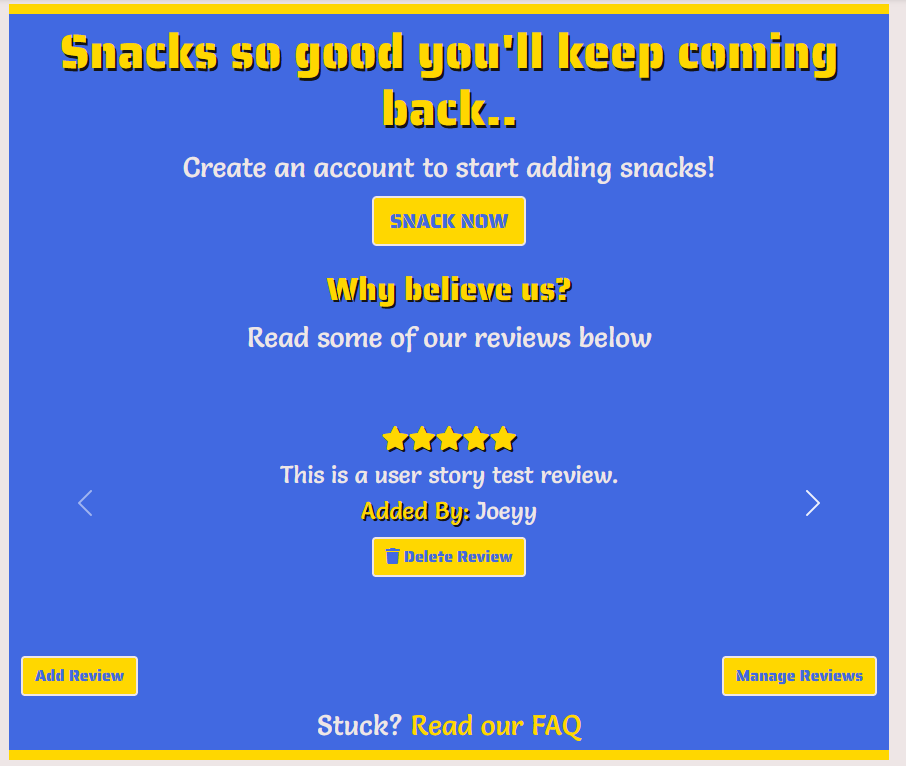
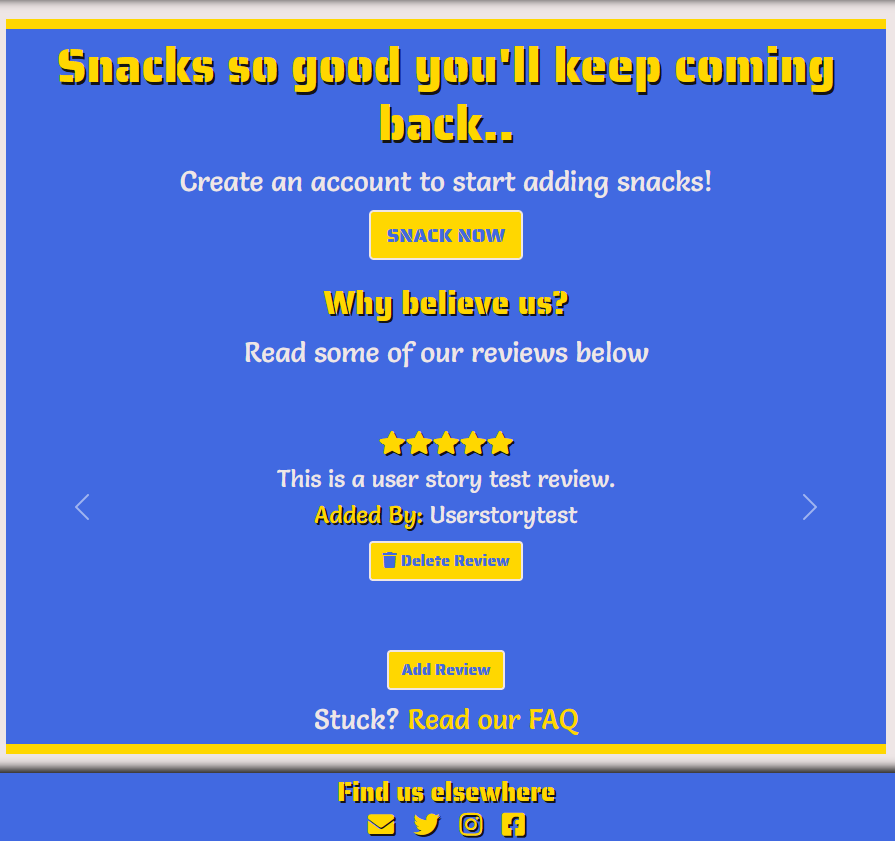
[DOCS] Refactored rest of registered user stories

Changed region(s): [[0.0, 0.0, 1.0, 1.0], [0.181, 0.1802, 0.8145, 0.4504]]

diff --git a/TESTING.md b/TESTING.md
@@ -316,17 +316,27 @@ I tested the appearance and responsiveness of the website across 6 different bro
         | ![Login Screenshot](docs/images/testing/userstories/login.png) |
         | ![Logout Screenshot](docs/images/testing/userstories/logout.png) |
 
-+ As a **Registered User**, I want to be able to easily add and remove items from my supply crate.
++ As a **Registered User**, I want to be able to easily add, update and delete items from my supply crate.
     + I have added an Add To Crate button on each supply in ```supplies.html``` which allows the user to easily add a selected quantity of the supply to their crate.
     + I have added Update/Delete buttons for each crate item in ```crate.html``` which allows the user to easily update/delete supplies in their crate.
 
-        | _Add To Crate_ |
-        |:--------------:|
-        | ![Add To Crate Screenshot](docs/images/testing/userstories/add-to-crate.png) |
+        | _Add To Crate_ | _Update/Delete_ |
+        |:--------------:|:---------------:|
+        | ![Add To Crate button Screenshot](docs/images/testing/userstories/add-to-crate.png) | ![Update/Delete button Screenshot](docs/images/testing/userstories/update-delete.png) |
 
-        | _Update/delete_ |
-        |:---------------:|
-        | ![Update/Delete Screenshot](docs/images/testing/userstories/update-delete.png) |
+    + I have simulated creating a crate for use through testing.
+
+        | _Adding to Crate_ | _Info_ | _Image_ |
+        |:--:|:------:|:-------:|
+        | Adding Item 1 | Adding 5 Banana Yazoo to crate. | ![Adding Item 1 Screenshot](docs/images/testing/userstories/add-to-crate-1.png) |
+        | Adding Item 2 | Adding 3 McVities Iced Gems 6 pack to crate. | ![Adding Item 2 Screenshot](docs/images/testing/userstories/add-to-crate-2.png) |
+        | Adding Item 3 | Added Apple Slices to crate. | ![Adding Item 3 Screenshot](docs/images/testing/userstories/add-to-crate-3.png) |
+        | Add Success Notification | Notification displayed with a preview of their current crate. | ![Add Success Notification Screenshot](docs/images/testing/userstories/add-to-crate-success-notification.png) |
+        | Update Filled | Filling out update quantity form with 5. | ![Update Filled Screenshot](docs/images/testing/userstories/update-filled.png) |
+        | Update Success | Upon clicking update the quantity updates. | ![Update Success Screenshot](docs/images/testing/userstories/update-success.png) |
+        | Update Success Notification | Notification displayed that the quantity of that supply has been updated. | ![Update Success Notification Screenshot](docs/images/testing/userstories/update-success-notification.png) |
+        | Delete Success Notification | When clicking the delete button the selected supply is removed from the crate. | ![Delete Success Notification Screenshot](docs/images/testing/userstories/delete-success-notification.png) |
+        | Delete Success | When viewing ```crate.html``` you can see Apple Slices have been removed from the crate. | ![Delete Sucess Screenshot](docs/images/testing/userstories/delete-success.png) |
 
 + As a **Registered User**, I want to be able to easily purchase my crate.
     + Whenever the crate is updated the user is given a message containing a link to ```crate.html```.
@@ -336,7 +346,7 @@ I tested the appearance and responsiveness of the website across 6 different bro
     
         | _Checkout_ | _Info_ | _Screenshot_ |
         |:----------:|:------:|:-------:|
-        | Viewing Crate | Crate displays as intended on ```crate.html```. | ![Viewing Crate Screenshot](docs/images/testing/userstories/checkout-view-crate.png) |
+        | Viewing Crate | Crate displays as intended on ```crate.html``` (same picture from previous user story to remove redunant files). | ![Viewing Crate Screenshot](docs/images/testing/userstories/delete-success.png) |
         | Applying Coupon | Entering a invalid coupon displays an error to the user. | ![Coupon Failed Screenshot](docs/images/testing/userstories/checkout-coupon-failed.png) |
         | Applying Coupon | Entering a valid coupon applies the discount and is displayed to the user. | ![Applying Coupon Screenshot](docs/images/testing/userstories/checkout-coupon.png) |
         | Checkout Button | ```crate.html``` contains a "Secure Checkout" button which redirects users to ```checkout.html```. | ![Checkout Button Screenshot](docs/images/testing/userstories/checkout-button.png) |
@@ -384,14 +394,12 @@ I tested the appearance and responsiveness of the website across 6 different bro
 
 + As a **Registered User**, I want to be able to add a review about my experience on the site.
     + Included in the homepage is an "Add Review" button which is displayed underneath the current reviews carousel.
-    + When clicked, the user will be directed to ```review_add.html``` which contains a form that allows the user to add a review to the site.
-    + Upon submitting valid information in the Add Review form (provided in the placeholder and choosing a rating) the review will be added to the data store and displayed in the list.
 
-        | _Adding a Review_ |_Screenshot_|
-        |:-----------------:|:----------:|
-        | Empty Review Form | ![Empty Review Form Screenshot](docs/images/testing/userstories/add-review-empty.png) |
-        | Add Review | ![Add Review Screenshot](docs/images/testing/userstories/add-review.png) |
-        | Add Review Success | ![Add Review Success Screenshot](docs/images/testing/userstories/add-review-success.png) |
+        | _Adding a Review_ | _Info_ | _Screenshot_ |
+        |:-----------------:|:------:|:------------:|
+        | Empty Review Form | Upon clicking the "Add Review" button, the user will be directed to ```review_add.html``` which contains a form that allows the user to add a review to the site. | ![Empty Review Form Screenshot](docs/images/testing/userstories/add-review-empty.png) |
+        | Add Review | Entering a review and choosing a rating. | ![Add Review Screenshot](docs/images/testing/userstories/add-review.png) |
+        | Add Review Success |  Upon submitting valid information in the Add Review form (provided in the placeholder and choosing a rating) the review will be added to the data store and displayed on ```index.html``` as well as the delete review button. (This functionality is covered in the admin section as admins have permission to delete any review) | ![Add Review Success Screenshot](docs/images/testing/userstories/add-review-success.png) |
 
     + Upon clicking the cancel button the data will be untouched, the form will close and the user returned to the home page.
 
